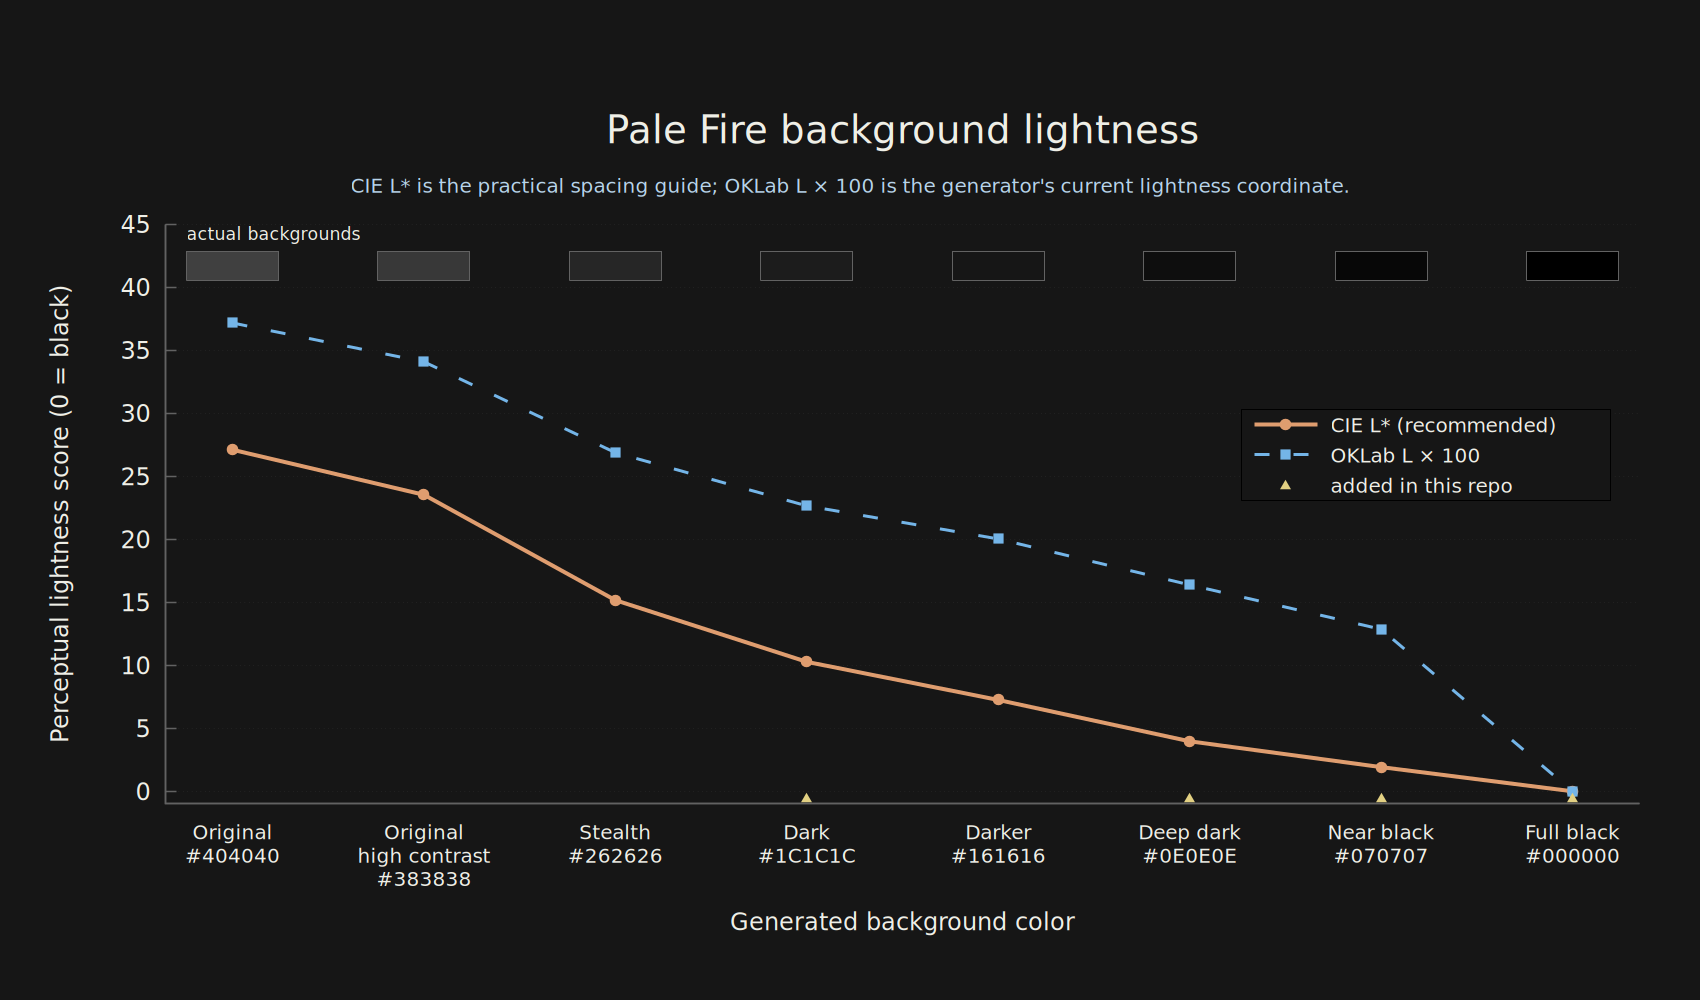
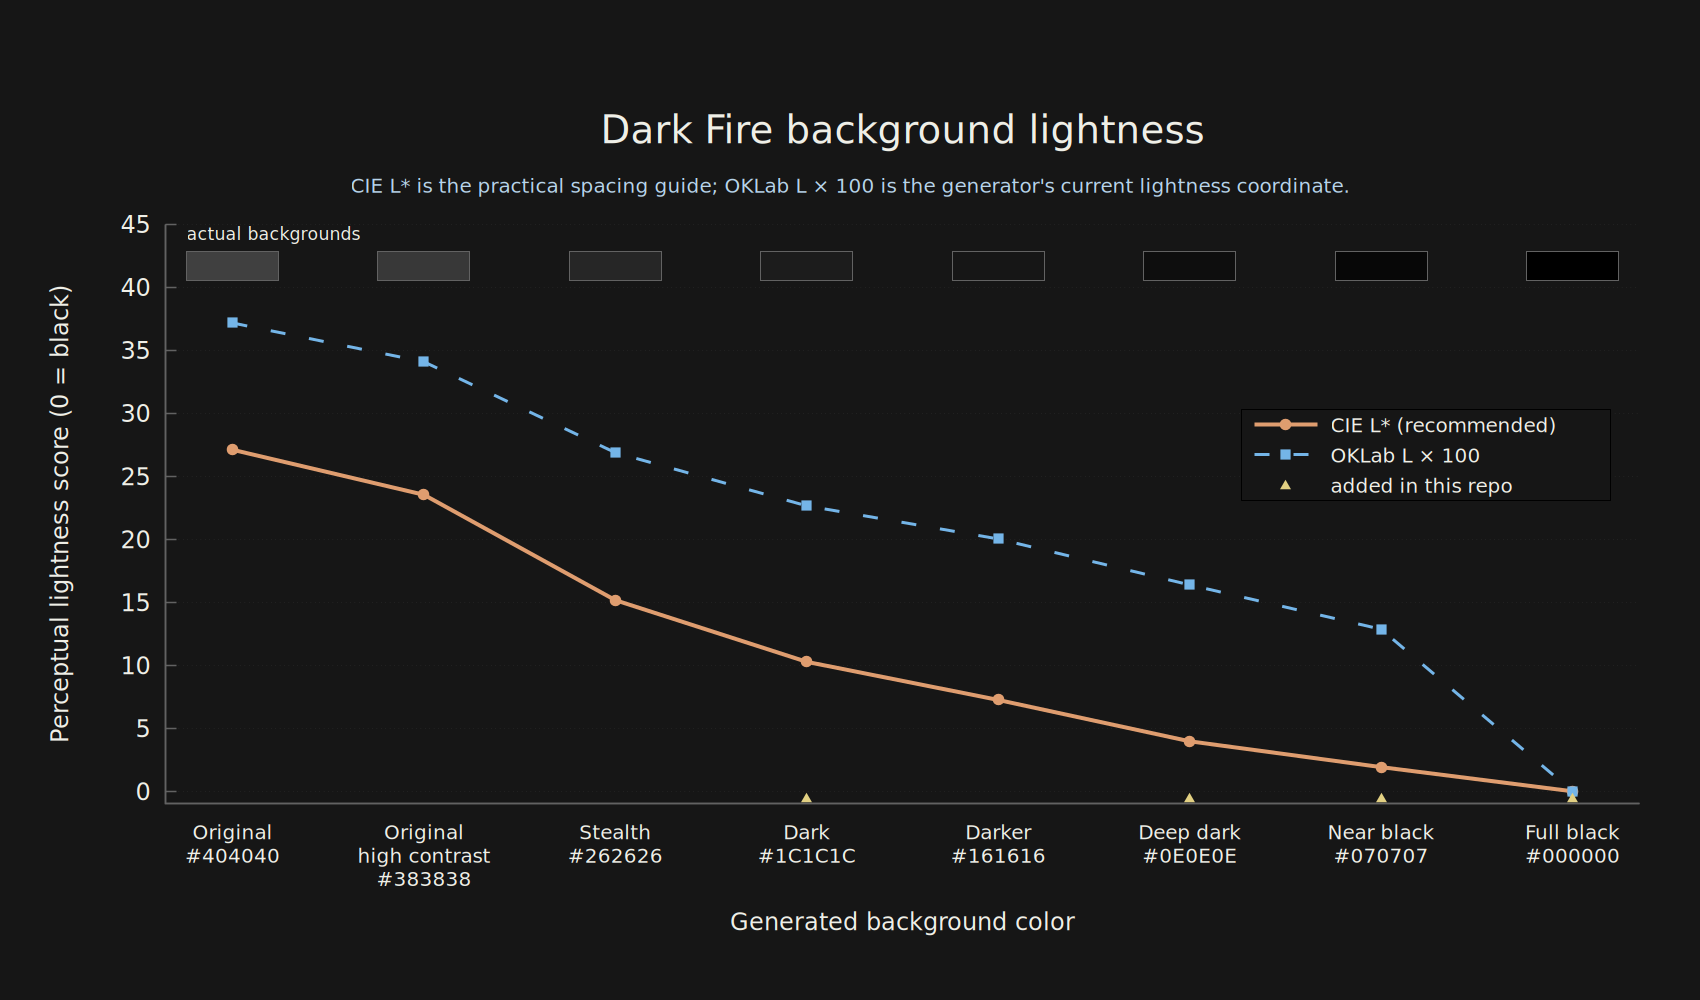
Rename project to Dark Fire

Changed region(s): [[0.3429, 0.093, 0.7171, 0.155]]

diff --git a/README.md b/README.md
@@ -1,26 +1,26 @@
-# Pale Fire Variants
+# Dark Fire
 
-Pale Fire themes for VS Code, Ghostty, and the web, generated from one small Zig color engine.
+Dark Fire themes for VS Code, Ghostty, and the web, generated from one small Zig color engine.
 
-This project is based on [matklad's Pale Fire](https://github.com/matklad/pale-fire), which is itself based on [Zenburn for Emacs](https://github.com/bbatsov/zenburn-emacs). The Near Black and Full Black variants were inspired by [Dark+ (Full Black)](https://github.com/DhruvDh/dark-plus-full-black).
+Dark Fire is based on [matklad's Pale Fire](https://github.com/matklad/pale-fire), which is itself based on [Zenburn for Emacs](https://github.com/bbatsov/zenburn-emacs). The Near Black and Full Black variants were inspired by [Dark+ (Full Black)](https://github.com/DhruvDh/dark-plus-full-black).
 
 The palette and its variants live in one place. Each backend only maps those colors into its target format, making it straightforward to add more outputs later.
 
-One goal of this project is to make the darker end of Pale Fire feel more deliberate across applications. The upstream themes leave some large perceptual jumps between backgrounds, while editor and terminal versions of a theme can feel noticeably different. This project adds more closely spaced dark options and generates every target from the same palette so VS Code, Ghostty, and the web stay visually aligned.
+One goal of this project is to make the darker end of the Pale Fire palette feel more deliberate across applications. The upstream themes leave some large perceptual jumps between backgrounds, while editor and terminal versions of a theme can feel noticeably different. Dark Fire adds more closely spaced dark options and generates every target from the same palette so VS Code, Ghostty, and the web stay visually aligned.
 
 ## Install
 
 ### VS Code
 
-Download the `.vsix` file from the [latest release](https://github.com/cgbur/pale-fire/releases/latest). In VS Code, open the Command Palette, run **Extensions: Install from VSIX...**, and choose the downloaded file.
+Download the `.vsix` file from the [latest release](https://github.com/cgbur/dark-fire/releases/latest). In VS Code, open the Command Palette, run **Extensions: Install from VSIX...**, and choose the downloaded file.
 
-Then run **Preferences: Color Theme** and choose a Pale Fire variant. To update later, download and install the newer VSIX.
+Then run **Preferences: Color Theme** and choose a Dark Fire variant. To update later, download and install the newer VSIX.
 
-Marketplace publication is deferred and tracked in [issue #1](https://github.com/cgbur/pale-fire/issues/1).
+Marketplace publication is deferred and tracked in [the Marketplace issue](https://github.com/cgbur/dark-fire/issues/1).
 
 ### Ghostty
 
-Download `pale-fire-ghostty-themes-*.zip` from the [latest release](https://github.com/cgbur/pale-fire/releases/latest) and extract it with your archive application. Copy the extracted files into Ghostty's theme directory:
+Download `dark-fire-ghostty-themes-*.zip` from the [latest release](https://github.com/cgbur/dark-fire/releases/latest) and extract it with your archive application. Copy the extracted files into Ghostty's theme directory:
 
 ```sh
 mkdir -p "${XDG_CONFIG_HOME:-$HOME/.config}/ghostty/themes"
@@ -30,20 +30,20 @@ cp /path/to/extracted-themes/* "${XDG_CONFIG_HOME:-$HOME/.config}/ghostty/themes
 Add a theme to `${XDG_CONFIG_HOME:-$HOME/.config}/ghostty/config.ghostty`:
 
 ```ini
-theme = Pale Fire 07 - Near Black
+theme = Dark Fire 07 - Near Black
 ```
 
 Reload Ghostty's configuration or restart Ghostty. See the [Ghostty configuration documentation](https://ghostty.org/docs/config) for alternative config locations.
 
 ### Web
 
-Download `pale-fire-web-themes-*.zip` from the [latest release](https://github.com/cgbur/pale-fire/releases/latest) and extract `pale-fire.css`. The stylesheet exposes every palette as CSS custom properties. Add a variant to any container without changing the rest of the page:
+Download `dark-fire-web-themes-*.zip` from the [latest release](https://github.com/cgbur/dark-fire/releases/latest) and extract `dark-fire.css`. The stylesheet exposes every palette as CSS custom properties. Add a variant to any container without changing the rest of the page:
 
 ```html
-<link rel="stylesheet" href="pale-fire.css" />
+<link rel="stylesheet" href="dark-fire.css" />
 
-<article data-pale-fire-theme="near-black">
-  <!-- Use --pf-background, --pf-foreground, and the other --pf-* colors here. -->
+<article data-dark-fire-theme="near-black">
+  <!-- Use --df-background, --df-foreground, and the other --df-* colors here. -->
 </article>
 ```
 
@@ -53,20 +53,20 @@ The names sort from lightest background to darkest:
 
 | Variant | Editor background | Character |
 | --- | --- | --- |
-| Pale Fire 01 - Original | `#404040` | The original palette |
-| Pale Fire 02 - Original High Contrast | `#383838` | The original palette with stronger contrast |
-| Pale Fire 03 - Stealth | `#262626` | Muted contrast |
-| Pale Fire 04 - Dark | `#1C1C1C` | A small step above Darker |
-| Pale Fire 05 - Darker | `#161616` | Upstream's darker variant |
-| Pale Fire 06 - Deep Dark | `#0E0E0E` | Between Darker and Near Black |
-| Pale Fire 07 - Near Black | `#070707` | Almost black with subtle depth |
-| Pale Fire 08 - Full Black | `#000000` | Black primary surfaces with visible borders |
+| Dark Fire 01 - Original | `#404040` | The original palette |
+| Dark Fire 02 - Original High Contrast | `#383838` | The original palette with stronger contrast |
+| Dark Fire 03 - Stealth | `#262626` | Muted contrast |
+| Dark Fire 04 - Dark | `#1C1C1C` | A small step above Darker |
+| Dark Fire 05 - Darker | `#161616` | Upstream's darker variant |
+| Dark Fire 06 - Deep Dark | `#0E0E0E` | Between Darker and Near Black |
+| Dark Fire 07 - Near Black | `#070707` | Almost black with subtle depth |
+| Dark Fire 08 - Full Black | `#000000` | Black primary surfaces with visible borders |
 
 ### Perceptual background spacing
 
 The plot compares the generated backgrounds using CIE L*, a practical perceived-lightness guide for neutral SDR colors, and the OKLab L coordinate used by the palette generator. Exact near-black perception still depends on the display, ambient light, and visual adaptation.
 
-![Perceptual lightness of the Pale Fire variant backgrounds](./docs/assets/background-lightness.png)
+![Perceptual lightness of the Dark Fire variant backgrounds](./docs/assets/background-lightness.png)
 
 Regenerate the image from its [gnuplot source](./docs/assets/background-lightness.gnuplot):
 
@@ -84,7 +84,7 @@ zig build run -- check
 zig build test
 ```
 
-The generator writes every variant to `themes/vscode/` and `themes/ghostty/`, plus one portable stylesheet at `themes/web/pale-fire.css`. Generated themes and VSIX files are not committed; the Zig source is the source of truth.
+The generator writes every variant to `themes/vscode/` and `themes/ghostty/`, plus one portable stylesheet at `themes/web/dark-fire.css`. Generated themes and VSIX files are not committed; the Zig source is the source of truth.
 
 List variants with `zig build run -- list`, or generate one with `zig build run -- generate --variant near-black`.
 
